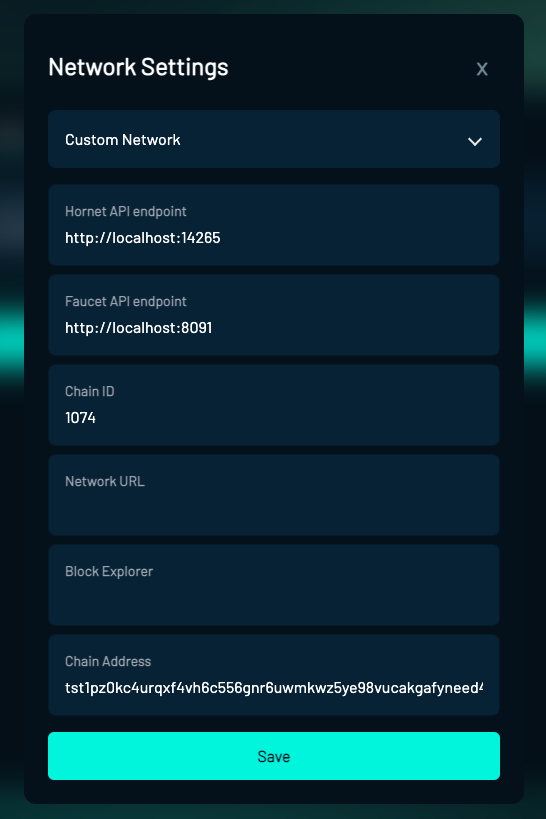
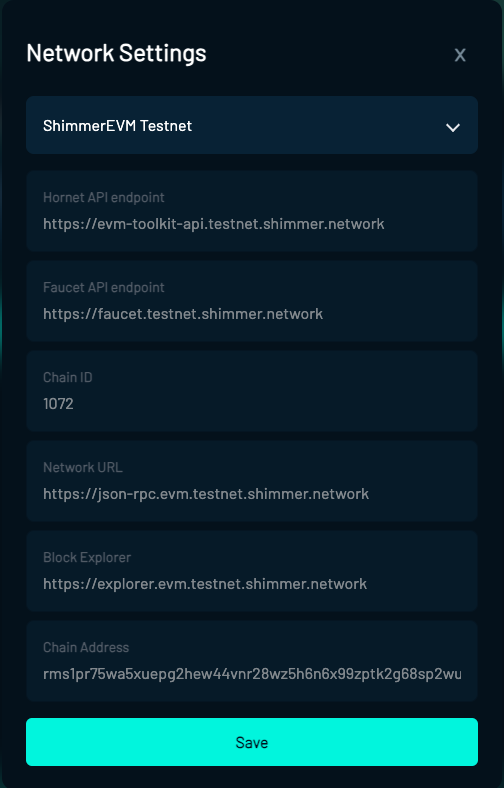
updated chainid wherever missed

diff --git a/tutorials/pages/shimmerevm-hardhat.md b/tutorials/pages/shimmerevm-hardhat.md
@@ -132,7 +132,7 @@ module.exports = {
   networks: {
     'shimmerevm-testnet': {
       url: 'https://json-rpc.evm.testnet.shimmer.network',
-      chainId: 1071,
+      chainId: 1072,
       accounts: [priv_key],
     },
   },
@@ -205,7 +205,7 @@ etherscan: {
   customChains: [
     {
       network: 'shimmerevm-testnet',
-      chainId: 1071,
+      chainId: 1072,
       urls: {
         apiURL: 'https://explorer.evm.testnet.shimmer.network/api',
         browserURL: 'https://explorer.evm.testnet.shimmer.network/',

diff --git a/next/docs/wasp/docs/guide/chains_and_nodes/testnet.md b/next/docs/wasp/docs/guide/chains_and_nodes/testnet.md
@@ -39,7 +39,7 @@ the following configuration:
 | Key      | Value                                        |
 | -------- | -------------------------------------------- |
 | RPC URL  | https://json-rpc.evm.testnet.shimmer.network |
-| Chain ID | 1071                                         |
+| Chain ID | 1072                                         |
 
 :::note
 

diff --git a/tutorials/pages/shimmerevm-setup.md b/tutorials/pages/shimmerevm-setup.md
@@ -19,7 +19,7 @@ Add a new network on your Metamask, as shown below:
 
 - Network Name: `ShimmerEVM Testnet`
 - New RPC URL: `https://json-rpc.evm.testnet.shimmer.network`
-- Chain ID: `1071`
+- Chain ID: `1072`
 - Currency Symbol: `SMR` (Can be anything you wish)
 - Explorer URL: https://explorer.evm.testnet.shimmer.network
 

diff --git a/next/docs/wasp/docs/guide/evm/tooling.md b/next/docs/wasp/docs/guide/evm/tooling.md
@@ -102,7 +102,7 @@ make sure you add the correct network parameters to your `hardhat.config.js`, fo
 networks: {
     'shimmerevm-testnet': {
       url: 'https://json-rpc.evm.testnet.shimmer.network',
-      chainId: 1071,
+      chainId: 1072,
       accounts: [priv_key],
     },
 }
